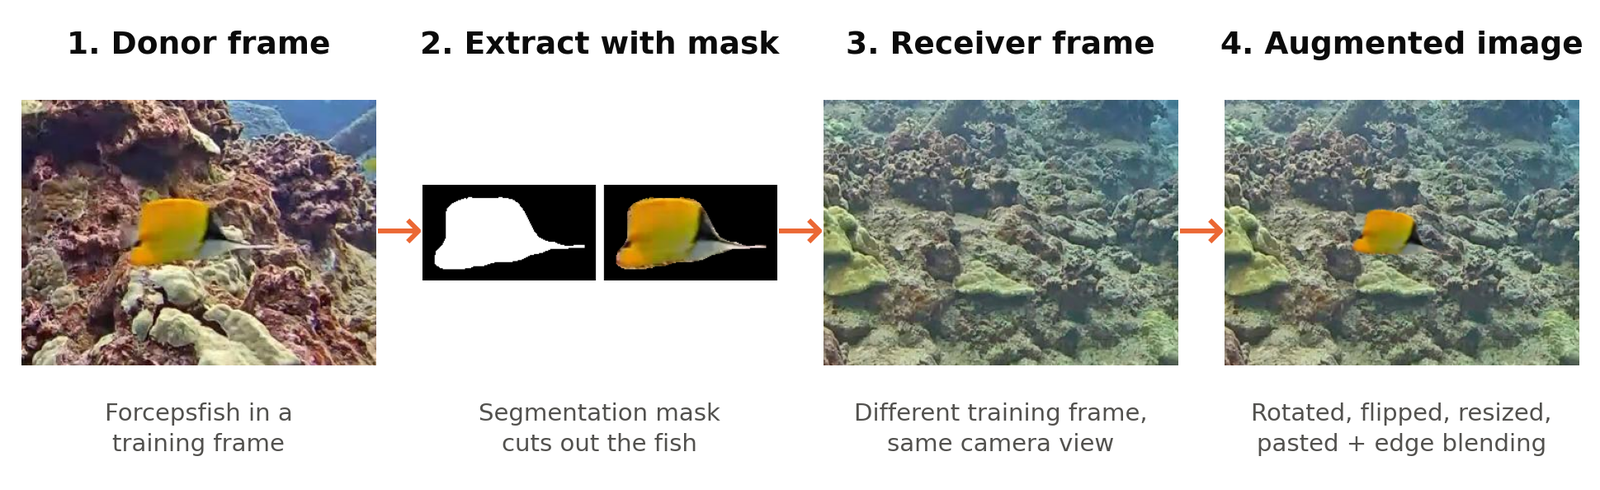
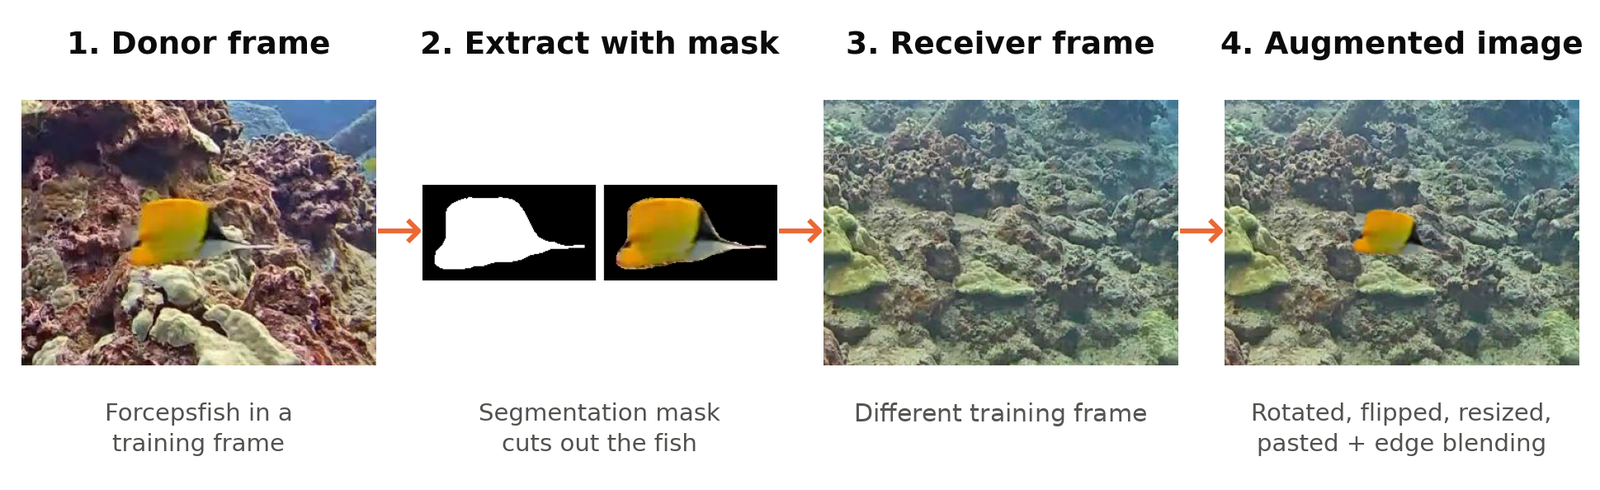
Update copy-paste figure caption

Changed region(s): [[0.5312, 0.8265, 0.7188, 0.9184]]

diff --git a/README.md b/README.md
@@ -48,7 +48,7 @@ random sample; see [`media/`](media/) for details.
 ## Method
 
 **Targeted copy-paste.** A focus-species fish is cut out of a training frame with its mask, randomly rotated, flipped
-and resized, and pasted into another training frame with the same camera view, with edge-only Poisson blending.
+and resized, and pasted into another training frame with the same view type (reef or pole), with edge-only Poisson blending.
 
 ![Copy-paste pipeline: donor frame, mask cut-out, receiver frame, augmented image](media/copy_paste_pipeline.png)
 
@@ -63,7 +63,7 @@ frames within 15 frames of a test frame (buffer) are left out of training.
 | **Models** | YOLO26 detection and instance segmentation, sizes S / M / L, COCO-pretrained, `imgsz 1280`, up to 150 epochs (patience 50) |
 | **Conditions** | Baseline vs targeted copy-paste augmentation; everything else identical |
 | **Focus species** | Forcepsfish (93 instances), Orangespine Unicornfish (77), Convict Tang (33) |
-| **Copy-paste** | 23 / 27 / 19 donors taken only from each fold's training frames; random rotation (±20°) and flip; shrunk to sizes drawn from the species' real training sizes; pasted into frames from the same camera view without overlapping other fish; edge-only Poisson blending; 150 synthetic images per species per fold |
+| **Copy-paste** | 23 / 27 / 19 donors taken only from each fold's training frames; random rotation (±20°) and flip; shrunk to sizes drawn from the species' real training sizes; pasted into frames of the same view type (reef or pole) without overlapping other fish; edge-only Poisson blending; 150 synthetic images per species per fold |
 | **Evaluation** | 5-fold temporal block cross-validation: 49 blocks of 30 frames, validation (every second block of the next fold) used only for epoch selection, and a 15-frame buffer around test frames. Test-fold predictions are pooled, so every fish is tested once |
 | **Runs** | 6 configurations × 2 conditions × 5 folds × 2 seeds = 120 (84.6 H100 GPU-hours) |
 | **Statistics** | COCO AP50 (box IoU for detection, mask IoU for segmentation). Paired block bootstrap: 2,000 resamples of the 49 blocks, seeds averaged. Holm–Bonferroni across the 6 configurations and, separately, across the 3 species |
